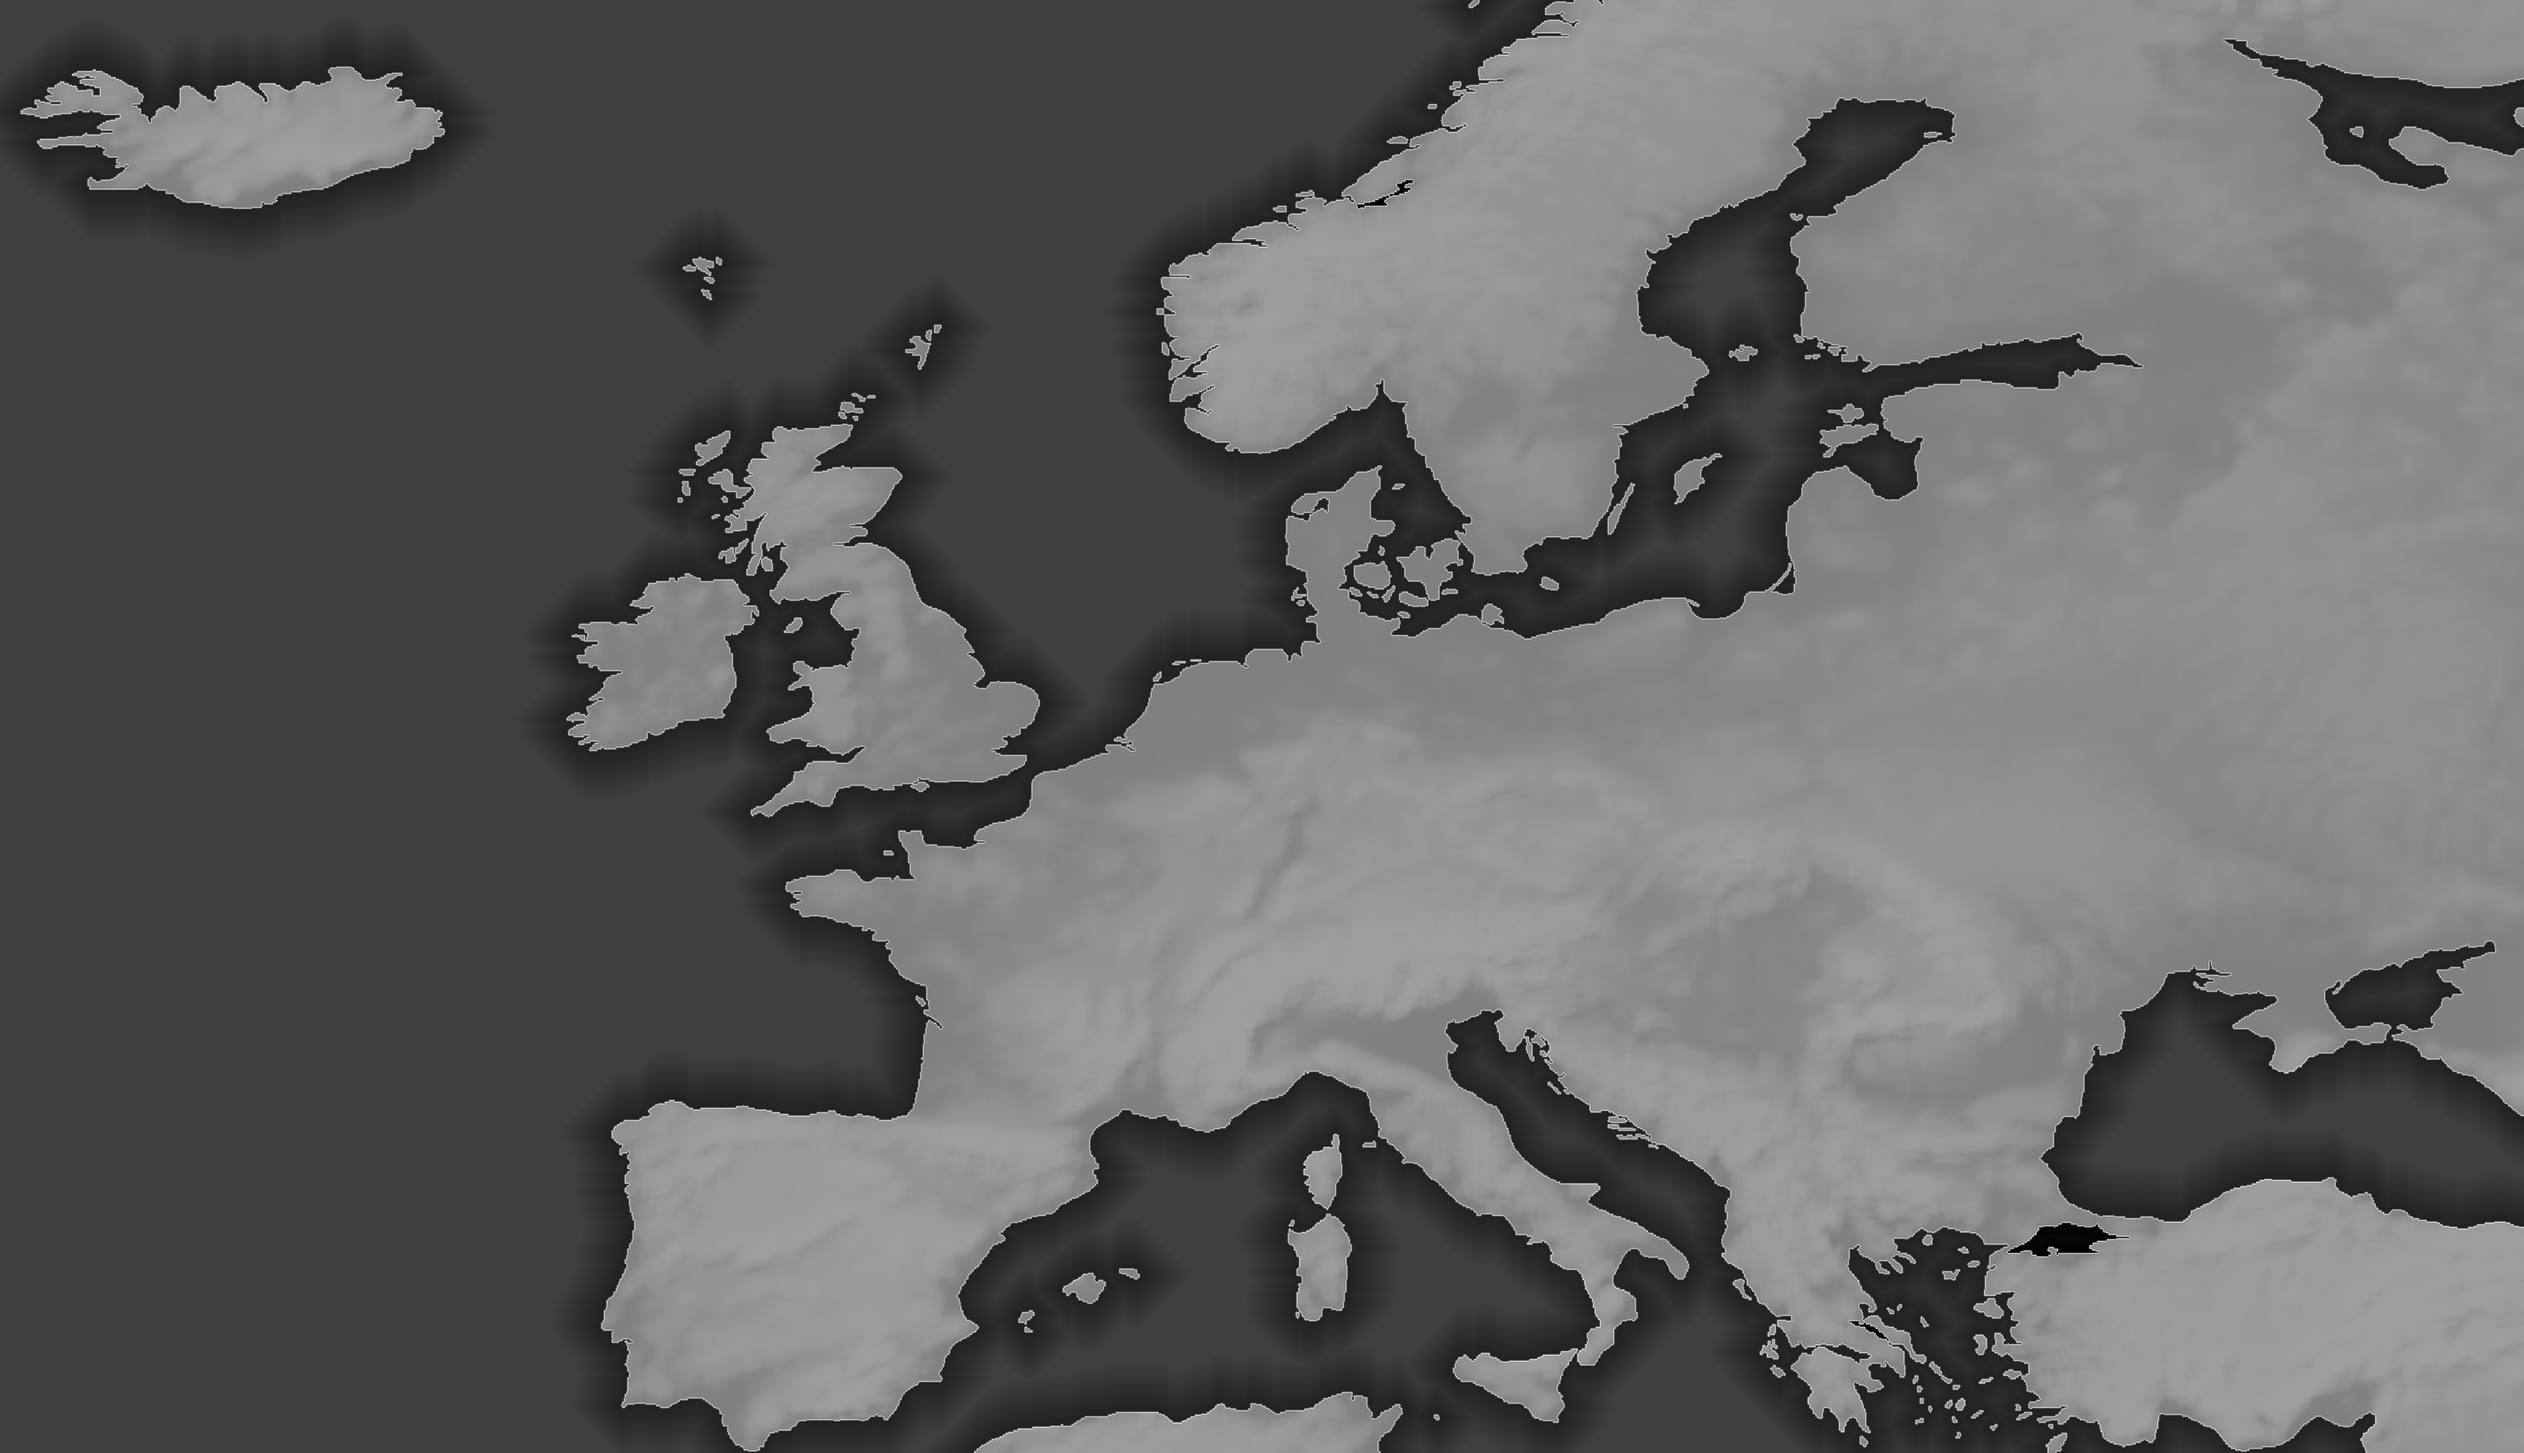
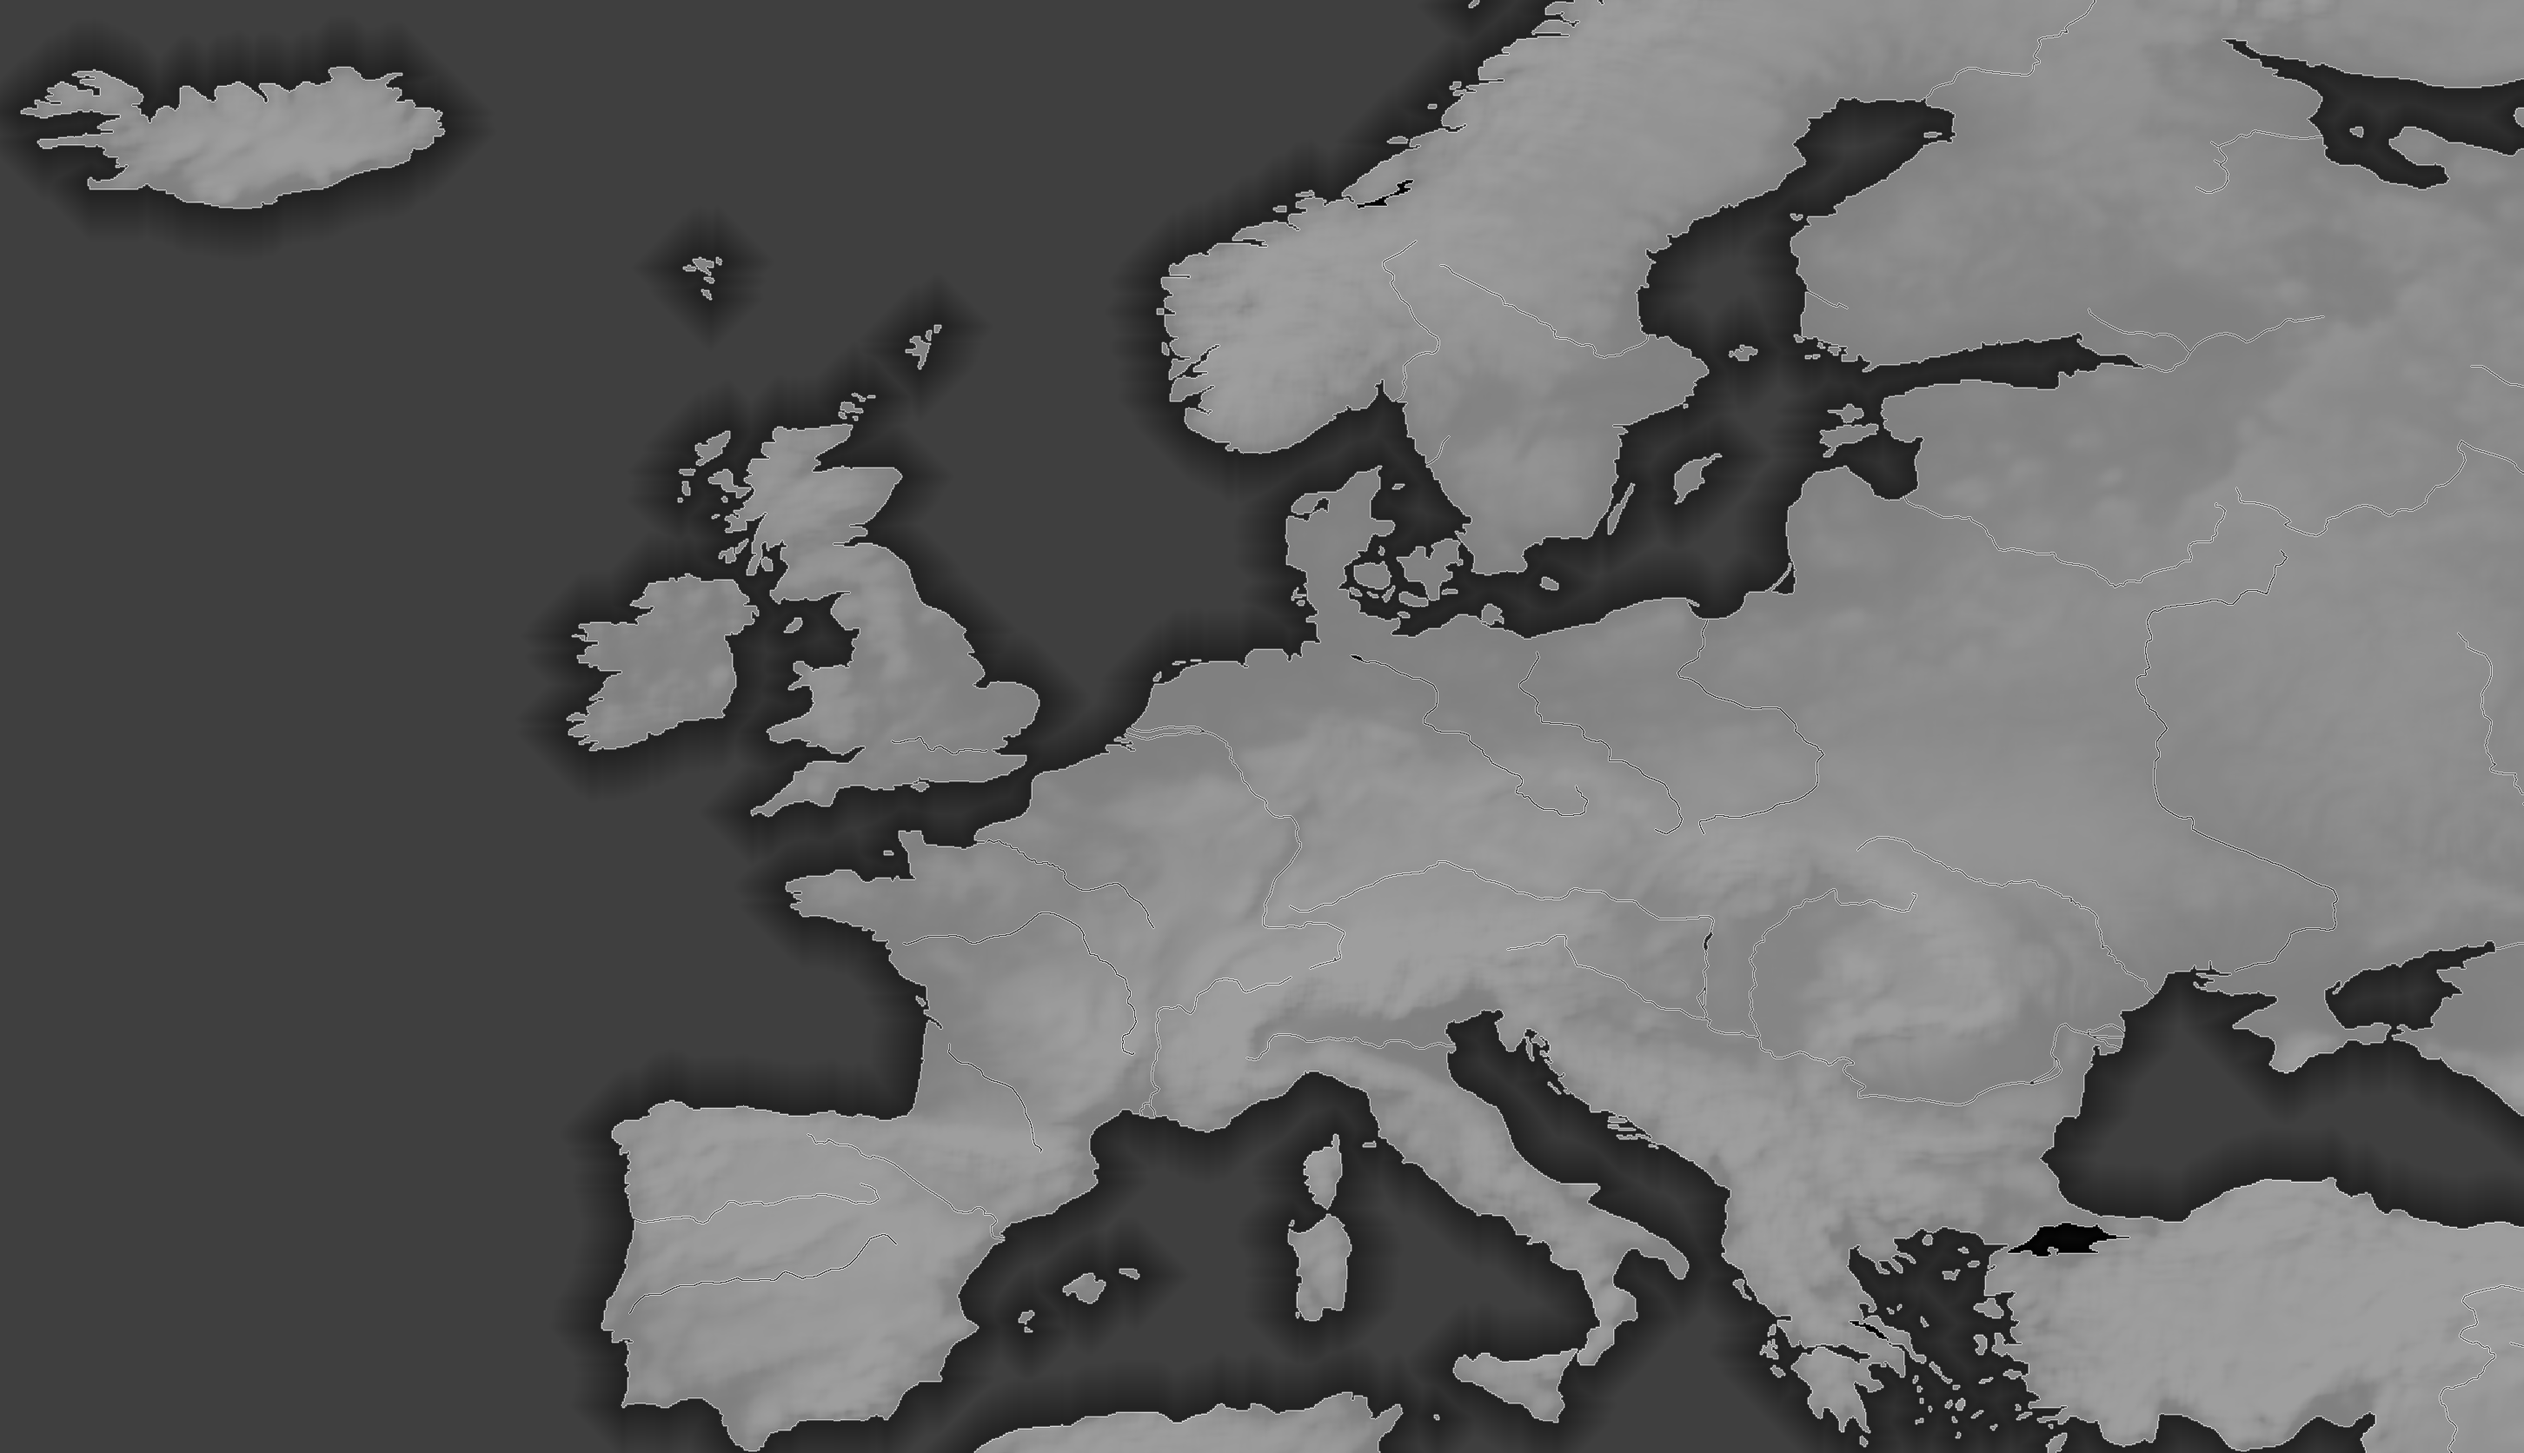
Реки в фундаменте F как водные клетки (барьер для захвата, проход для лодок; Water: conquerable=false, navigable=true). Импорт: реки закреплены от сглаживания, 4-связные, защищены от удаления как малые озёра (protectWater в buildFoundation, по умолчанию без изменений). Тест берега исключает реки и и

Changed region(s): [[0.9917, 0.5287, 1.0, 0.5598], [0.6508, 0.6842, 0.6818, 0.7153], [0.4959, 0.622, 0.5269, 0.6531]]

diff --git a/client/scripts/maps/import-earth.ts b/client/scripts/maps/import-earth.ts
@@ -5,10 +5,11 @@ import {createHash} from "crypto";
 import {readFileSync, writeFileSync} from "fs";
 import {join} from "path";
 import {buildFoundation, CELL_LAND, CELL_WATER} from "../../../packages/core/src/map/foundation/Foundation";
-import {encodeGrayPNG} from "./lib/png-io";
+import {encodeGrayPNG, decodeGrayPNG} from "./lib/png-io";
 import {measure} from "./lib/terrain-gen";
 import {smoothLandMask} from "./lib/terrain-gen";
 import {rankRelief, smoothOverLand, removeIsolatedRelief} from "./lib/relief";
+import {fourConnect} from "./lib/rivers";
 import {decodeFoundationByte} from "../../../packages/core/src/map/foundation/Foundation";
 
 // Per-region parameters (shares, island/lake thresholds, relief smoothing) come from regions.json.
@@ -33,14 +34,18 @@ for (const name of names) {
 	const n = width * height;
 	if (kindsRaw.length !== n || elevRaw.length !== n) throw new Error(`${name}: size mismatch`);
 
+	// Rivers (Natural Earth, scripts/maps/rivers.py) are WATER in F: they block land expansion and carry boats.
+	// They are locked (smoothing must not erase them) and made 4-connected, because the game moves in 4 directions.
+	const riverMask = fourConnect(width, height, decodeGrayPNG(readFileSync(join(dir, `${name}.rivers.png`))).pixels);
 	const kinds = new Uint8Array(n);
-	for (let i = 0; i < n; i++) kinds[i] = kindsRaw[i] ? CELL_LAND : CELL_WATER;
+	for (let i = 0; i < n; i++) kinds[i] = kindsRaw[i] && !riverMask[i] ? CELL_LAND : CELL_WATER;
 	const elevation = new Uint8Array(elevRaw);
 
 	const t0 = Date.now();
 	const options = {
 		minIslandSize: region.minIslandSize,
 		minLakeSize: region.minLakeSize,
+		protectWater: riverMask, // rivers are channels, never removed as small lakes
 	};
 	// Coastline cleaning to a fixed point (no 1-cell tips, no 1-cell notches): smoothLandMask rule.
 	// Land with <=2 land neighbours (of 8) becomes water; water with >=6 land neighbours becomes land.
@@ -48,6 +53,7 @@ for (const name of names) {
 		let cur = src;
 		for (let pass = 0; pass < 50; pass++) {
 			const next = smoothLandMask(width, height, cur);
+			for (let i = 0; i < n; i++) if (riverMask[i]) next[i] = 0;
 			let changed = false;
 			for (let i = 0; i < n; i++) if (next[i] !== cur[i]) { changed = true; break; }
 			cur = next;

diff --git a/client/test/map/Rivers.test.ts b/client/test/map/Rivers.test.ts
@@ -1,0 +1,42 @@
+import {describe, test} from "node:test";
+import {equal, deepEqual} from "node:assert";
+import {fourConnect} from "../../scripts/maps/lib/rivers";
+import {buildFoundation, CELL_LAND, CELL_WATER, decodeFoundationByte} from "@frontline/core/map/foundation/Foundation";
+
+describe("fourConnect", () => {
+	test("a diagonal step gets one orthogonal bridge, so the river is 4-connected", () => {
+		// 3x3, diagonal from (0,0) to (1,1)
+		const w = 3, h = 3;
+		const px = Uint8Array.from([255, 0, 0, 0, 255, 0, 0, 0, 0]);
+		const out = fourConnect(w, h, px);
+		equal(out[0], 1);
+		equal(out[4], 1);
+		equal(out[1] + out[3] >= 1, true, "one of the orthogonal cells is added");
+	});
+
+	test("straight rivers are unchanged", () => {
+		const w = 3, h = 1;
+		deepEqual(Array.from(fourConnect(w, h, Uint8Array.from([255, 255, 0]))), [1, 1, 0]);
+	});
+});
+
+describe("protectWater in buildFoundation", () => {
+	// 9x5 land with a 3-cell inland water channel in the middle (inside land, not touching the border).
+	const w = 9, h = 5;
+	const kinds = new Uint8Array(w * h).fill(CELL_LAND);
+	const elev = new Uint8Array(w * h).fill(5);
+	const channel = [22, 23, 24];
+	for (const i of channel) kinds[i] = CELL_WATER;
+
+	test("without protection a small inland water body becomes land (lake rule)", () => {
+		const out = buildFoundation(w, h, kinds, elev, {minIslandSize: 1, minLakeSize: 200});
+		equal(decodeFoundationByte(out[23]).land, true);
+	});
+
+	test("with protectWater the river cells stay water and are not removed", () => {
+		const protectWater = new Uint8Array(w * h);
+		for (const i of channel) protectWater[i] = 1;
+		const out = buildFoundation(w, h, kinds, elev, {minIslandSize: 1, minLakeSize: 200, protectWater});
+		for (const i of channel) equal(decodeFoundationByte(out[i]).land, false, `river cell ${i} must stay water`);
+	});
+});

diff --git a/client/test/map/MapCoast.test.ts b/client/test/map/MapCoast.test.ts
@@ -7,15 +7,25 @@ import {decodeFoundationByte} from "@frontline/core/map/foundation/Foundation";
 
 // Coast cleanliness of the shipped foundation (resources/maps/<Name>.png): no 1-cell tips and no 1-cell notches.
 // Tip = land cell with <=2 land neighbours of 8. Notch = water cell with >=6 land neighbours of 8.
+// Decision (owner, 2026-10-16): river channels (resources/maps/<Name>.rivers.png) are exempt. A 1-cell river is a
+// channel by nature (6 land neighbours), and its banks are the same channel. Only the sea coast is tested.
 const root = join(__dirname, "..", "..");
 
 function coastCounts(name: string): {tips: number; notches: number; width: number; height: number} {
 	const img = decodeGrayPNG(readFileSync(join(root, "resources", "maps", `${name}.png`)));
 	const {width: w, height: h, pixels} = img;
+	const river = decodeGrayPNG(readFileSync(join(root, "resources", "maps", `${name}.rivers.png`))).pixels;
 	const land = new Uint8Array(w * h);
 	for (let i = 0; i < w * h; i++) land[i] = decodeFoundationByte(pixels[i]).land ? 1 : 0;
 	let tips = 0, notches = 0;
 	for (let y = 0; y < h; y++) for (let x = 0; x < w; x++) {
+		// Skip river cells and their 8-neighbours (the banks of the channel).
+		let inRiver = false;
+		for (let dy = -1; dy <= 1 && !inRiver; dy++) for (let dx = -1; dx <= 1; dx++) {
+			const xx = x + dx, yy = y + dy;
+			if (xx >= 0 && yy >= 0 && xx < w && yy < h && river[yy * w + xx]) { inRiver = true; break; }
+		}
+		if (inRiver) continue;
 		let n = 0;
 		for (let dy = -1; dy <= 1; dy++) for (let dx = -1; dx <= 1; dx++) {
 			if (dx === 0 && dy === 0) continue;

diff --git a/packages/core/src/map/foundation/Foundation.ts b/packages/core/src/map/foundation/Foundation.ts
@@ -84,6 +84,11 @@ export interface BuildFoundationOptions {
 	readonly minIslandSize: number;
 	/** Water bodies inside land smaller than this become land (reference: 200). */
 	readonly minLakeSize: number;
+	/**
+	 * Optional: water cells that are never removed as a lake (e.g. rivers, which are water channels, not lakes).
+	 * A water body containing any such cell is kept whatever its size. Absent = no protection (default behaviour).
+	 */
+	readonly protectWater?: Uint8Array;
 }
 
 /**
@@ -114,7 +119,10 @@ export function buildFoundation(
 	// 2. Ocean = water connected to the border. It is never removed, even if small.
 	const ocean = markOceanFromBorder(width, height, kind);
 	// 3. Small lakes (water bodies not touching the ocean) become flat land.
-	removeSmallBodies(width, height, kind, elev, CELL_WATER, options.minLakeSize, CELL_LAND, ocean);
+	const lakeProtect = options.protectWater
+		? Uint8Array.from(ocean, (v, i) => (v || options.protectWater![i] ? 1 : 0))
+		: ocean;
+	removeSmallBodies(width, height, kind, elev, CELL_WATER, options.minLakeSize, CELL_LAND, lakeProtect);
 
 	const out = new Uint8Array(n);
 	const isLand = (i: number) => kind[i] === CELL_LAND;

diff --git a/client/scripts/maps/lib/rivers.ts b/client/scripts/maps/lib/rivers.ts
@@ -1,0 +1,19 @@
+/** River helpers for the foundation import (rivers are water in F; see docs/MAP-ARCHITECTURE, amendment 2026-10-16). */
+
+/**
+ * Make a river mask 4-connected: for a diagonal step between two river cells, add one of the two orthogonal
+ * cells (the one on the left/top side, a fixed rule). The game moves in 4 directions, so a diagonal-only river
+ * would be cut for boats and would let land pass through it.
+ */
+export function fourConnect(width: number, height: number, pixels: Uint8Array): Uint8Array {
+	const out = Uint8Array.from(pixels, v => (v ? 1 : 0));
+	for (let y = 0; y < height - 1; y++) {
+		for (let x = 0; x < width - 1; x++) {
+			const i = y * width + x;
+			// Diagonal down-right and down-left pairs.
+			if (out[i] && out[i + width + 1] && !out[i + 1] && !out[i + width]) out[i + width] = 1;
+			if (out[i + 1] && out[i + width] && !out[i] && !out[i + width + 1]) out[i] = 1;
+		}
+	}
+	return out;
+}
